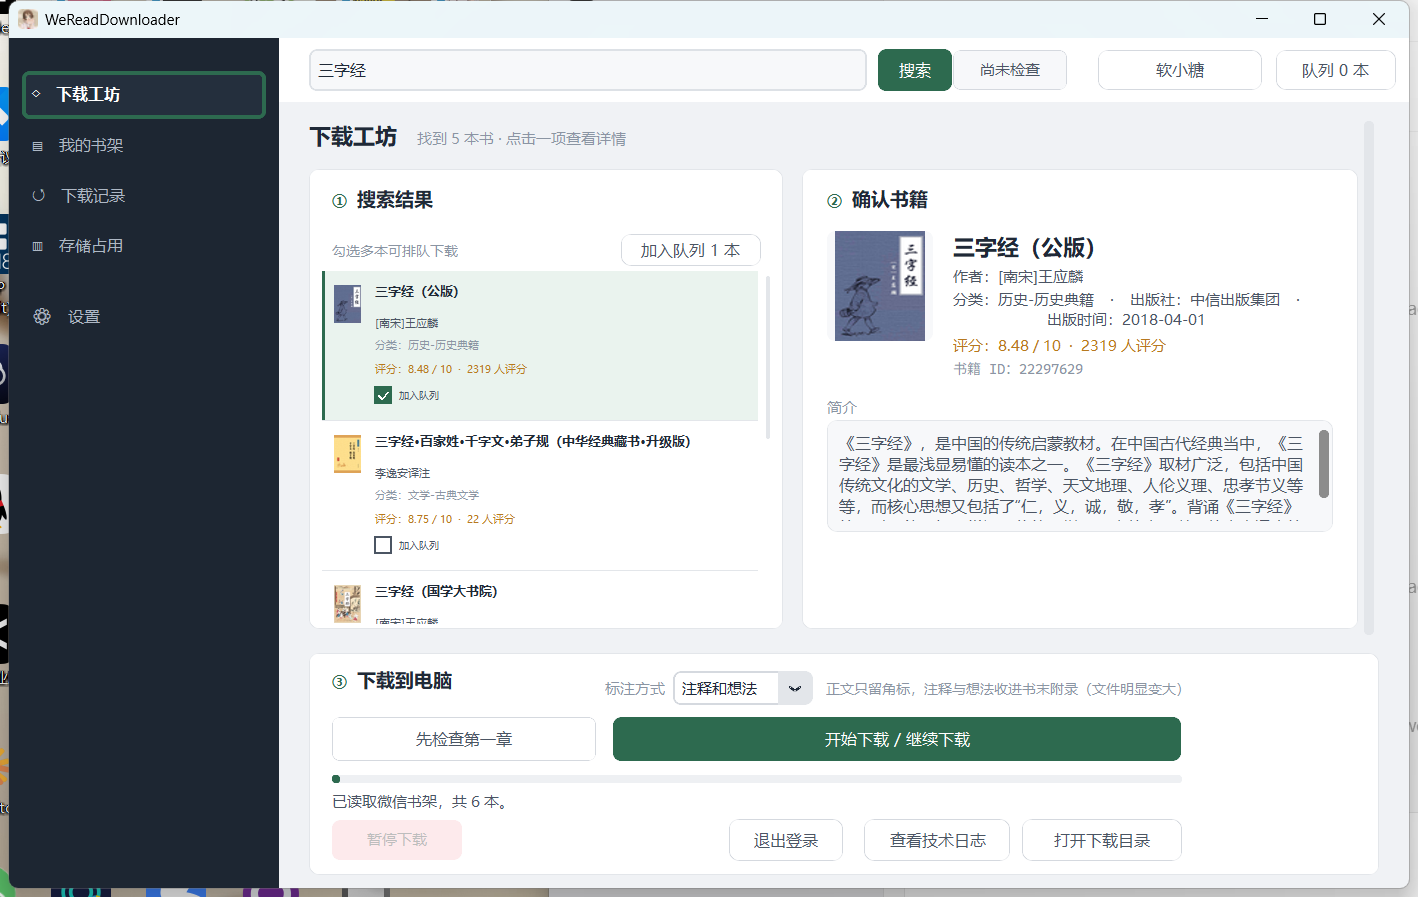
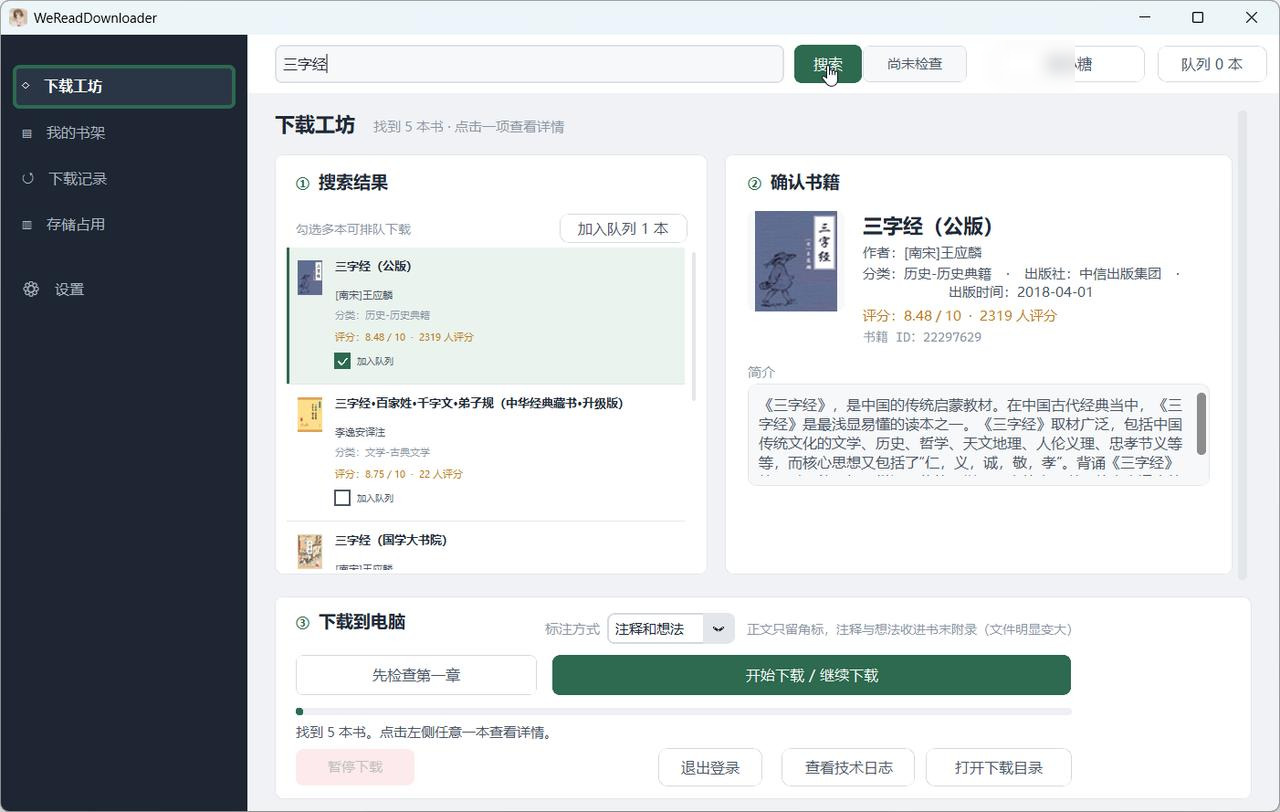
docs: 重写 README（完整功能介绍、目录含义、常见问题）；删除含其他窗口的截图并隐去账号名 (#44)

diff --git a/README.md b/README.md
@@ -1,18 +1,57 @@
 # WeReadDownloader
 
-把微信读书里的书导出成 EPUB：正文完整，划线和注释按你选的方式收进书末附录，支持断点续传和排队下载。Windows 桌面程序。
+把微信读书里的书导出成 EPUB。正文按章节抓取、可断点续传；划线、注释和想法按你选的方式收进书末附录；一次可以排队下载多本。
+
+Windows 桌面程序，Tk 图形界面，下载引擎是一个独立的 worker 进程。
 
 ![下载工坊](docs/screenshots/01-workflow.png)
 
-> 导出的内容版权归原作者和出版社，请只用于自己阅读，不要分享或传播。详见[免责声明](#免责声明)。
+> 导出的内容版权归原作者和出版社，请只用于自己阅读。详见[免责声明](#免责声明)。
+
+---
+
+## 功能
+
+- **搜索下载**：书名/作者搜索，选中后先试读第一章确认协议可用，再开始整本下载。
+- **书架下载**：直接列出微信读书账号里的书，点一下就能下载。
+- **断点续传**：章节、图片、划线数据逐章落盘；中断后继续下载不会从头再来。
+- **排队下载**：勾选多本加入队列，按顺序自动下载；可暂停在当前这本、可跳过某本、结束时汇总未完成的书。
+- **四种标注方式**：注释和想法 / 注释 / 想法 / 纯正文。
+- **统一附录**：注释与想法收进书末分册，正文只留可点的角标。
+- **缺失说明**：书里少了什么（缺图、未定位的划线）写进 `manifest.json`，下载完成时也会提示。
+- **体积控制**：插图按内容去重；图片与正文共用一个压缩包，不给同一本书存第二份。
 
 ---
 
 ## 下载安装
 
-从 [Releases](../../releases) 下载 `WeReadDownloader-Setup.exe`，双击安装。
+系统要求：Windows 10 / 11（64 位）。
 
-安装包只问装到哪、要不要桌面快捷方式。主程序和下载组件一起安装，没有可选的组件。
+从 [Releases](../../releases) 下载 `WeReadDownloader-Setup.exe` 双击安装。安装向导只问安装位置（默认 `C:\Program Files\WeReadDownloader`）和是否创建桌面快捷方式；主程序与下载组件一起安装。
+
+数据目录固定在本机，不跟随安装位置：
+
+```
+%LOCALAPPDATA%\WeReadDesktop\
+├── exports\      # 导出的书
+├── logs\         # 日志
+├── weread-live-settings.lua   # api_key
+└── session-cookies.json       # 扫码会话（DPAPI 加密）
+```
+
+升级或重装程序不会动这个目录。
+
+---
+
+## 快速开始
+
+1. 安装并打开程序。
+2. 点右上角账号按钮，按提示完成登录（见[登录](#登录)）。
+3. 在顶栏搜索书名，点搜索结果里的一本。
+4. 点「先检查第一章」，确认能取到正文。
+5. 点「开始下载 / 继续下载」。
+
+下载进度、当前章节和缺失说明都在「③ 下载到电脑」卡片里。
 
 ---
 
@@ -22,42 +61,51 @@
 
 | 页面 | 用途 |
 |---|---|
-| 下载工坊 | 搜索、确认书籍、开始下载；排队下载 |
-| 我的书架 | 账号里的书直接下载；本机已导出的书可以打开、删除 |
+| 下载工坊 | 搜索、确认书籍、下载；排队下载 |
+| 我的书架 | 微信书架直接下载；管理本机已导出的书 |
 | 下载记录 | 每本书的下载结果 |
-| 存储占用 | 导出目录占了多少、哪些可以回收 |
-| 设置 | 下载目录、日志目录、账号、标注方式说明、检查更新 |
+| 存储占用 | 导出目录占了多少、哪些目录可以回收 |
+| 设置 | 下载/日志目录、账号、标注方式说明、检查更新 |
 
-### 下载一本书
+### 下载工坊
 
-「下载工坊」从左到右三步：
+页面分三块，从左到右：
 
-1. **搜索**：顶栏输入书名或作者，点「搜索」。
-2. **确认**：点搜索结果里的一本，右侧显示封面、分类、简介和书籍 ID，确认是你要的版本。
-3. **下载**：先点「先检查第一章」验证账号和协议可用（只取一章，不会开始整本下载），再点「开始下载 / 继续下载」。
-
-中途关掉程序或断网都没关系：再次下载同一本书会从断点续传。
-
-### 排队下载
-
-在搜索结果里勾选多本，点结果卡片上的「加入队列 N 本」，再点顶栏的「队列」打开队列面板，点「开始队列下载」。
-
-- 队列按勾选顺序一本一本下载，每本结束后自动开始下一本。
-- 「暂停下载」停在当前这本，书插回队首，按钮变「继续队列」。
-- 下载中在结果卡片上取消勾选，轮到这本书时会跳过。
-- 队列结束时如果有书没完成，会列出书名和原因；已下载的章节都保留，可以在书架里点那本书继续。
+- **① 搜索结果**：搜索结果卡片，可勾选多本加入队列；每页 6 本，用底部翻页条切换。
+- **② 确认书籍**：封面、作者、分类、出版社、出版时间、评分、书籍 ID 和简介。选错版本时看这一栏。
+- **③ 下载到电脑**：标注方式、先检查第一章、开始/继续下载、暂停、退出登录、查看技术日志、打开下载目录。
 
 ### 我的书架
 
-「微信书架」列出账号里的书，点书名或「下载」直接开始。「本机已导出」是这台电脑上的成品：可以打开目录、删除想法数据（保留 EPUB）、删除整本，或用「全部清理」回收半成品和残留目录。
+上半部分「微信书架」是账号里的书，点书名或「下载」直接进入下载确认。右上角「刷新书架」重新拉取。
 
-![我的书架](docs/screenshots/02-bookshelf.png)
+下半部分「本机已导出」是这台电脑上的成品，按书列出：
+
+- **打开**：在资源管理器里打开导出目录。
+- **删想法**：删除 `reviews.jsonl`（想法与划线原始数据），EPUB 保留。
+- **删除**：删除整本书的导出目录。
+- **全部清理**：回收未完成/半成品/残留目录，不影响已完成的 EPUB。
+
+### 下载记录
+
+按时间列出每本书的结果：完成的书会标出产物类型（EPUB），未完成或失败的也会出现在这里。数据来自日志文件，可以随时清理。
+
+### 存储占用
+
+显示已完成的书数、想法数据体积、导出目录总占用和可回收空间。可回收部分就是「我的书架 → 全部清理」会删掉的那些目录。
+
+### 设置
+
+- 下载目录、技术日志目录的路径和「打开文件夹」。
+- 登录：说明凭证保存位置与退出登录的两个范围。
+- 标注方式：默认档位与含义。
+- 版本与更新：显示当前版本，检查更新（覆盖安装会保留导出与登录信息）。
 
 ---
 
 ## 标注方式
 
-下载区右上角的「标注方式」决定成品里保留哪些内容：
+下载区右上角的「标注方式」决定成品保留哪些内容：
 
 | 标注方式 | 划线 | 注释 | 想法 |
 |---|---|---|---|
@@ -66,11 +114,33 @@
 | **想法** | 有 | 无 | 书末附录 |
 | **纯正文** | 无 | 无 | 无 |
 
-「注释和想法」是默认档：正文只保留角标——注是「注」字角标，想法是蓝色 `[N]`——点角标跳到书末附录。附录按约 3000 条注分册，想法单独一册，都出现在目录里，可以像普通章节一样翻。
+**附录怎么排**：正文里只保留角标——注是「注」字角标，想法是蓝色 `[N]`——点角标跳到书末对应的条目，条目上的编号可以跳回原文。注按约 3000 条一册分批，想法单独一册，和普通章节一起出现在目录里，不占用阅读位置。
 
-「纯正文」连划线也不取，是四种里最快、体积最小的。
+**各档的差别**：
 
-标注方式按书保存，下载中途不能切换；换挡会按新模式重新下载（已下载的章节保留在断点里，但需要重新取正文）。
+- 「注释」不拉取想法数据；正文里原有的想法角标不会再指向附录。
+- 「想法」只收想法；注释不导入正文，也不生成注册。
+- 「纯正文」连 `/book/underlines` 与 `/book/readreviews` 两个接口都不请求，每章少两个网络往返，是四种里最快、体积最小的。
+
+**换挡的代价**：标注方式按书保存。下载中途不能改；下载完成后再换挡会重新取章节正文（断点里的旧章节是按旧模式注入的，需要重取）。
+
+---
+
+## 排队下载
+
+1. 在搜索结果里勾选多本（卡片上的「加入队列」）。
+2. 点结果区右上角「加入队列 N 本」。
+3. 点顶栏「队列」打开队列面板，点「开始队列下载」。
+
+| 操作 | 行为 |
+|---|---|
+| 开始队列下载 | 从队首一本一本下载，每本结束后自动开始下一本 |
+| 暂停下载 | 停在当前这本：写盘保留、书插回队首、按钮变「继续队列」 |
+| 继续队列 | 从队首那本继续，已下载的章节续传 |
+| 下载中取消勾选 | 轮到时跳过这本，不打断当前任务 |
+| 移除 / 清空队列 | 只在队列未运行时可用（运行中先暂停） |
+
+队列结束时，如果所有书都完成，状态栏写「队列已全部完成」；有书没完成时列出书名和原因。未完成的书保留断点，可以在书架里点那本书继续。
 
 ---
 
@@ -80,59 +150,127 @@
 %LOCALAPPDATA%\WeReadDesktop\exports\
 └── 书名-书籍ID\
     ├── 书名 - full.epub     # 成品，可直接阅读
-    ├── manifest.json        # 章节清单 + 这本书缺了什么
-    └── reviews.jsonl        # 划线落点与想法原始数据
+    ├── manifest.json        # 章节清单 + 本书的缺失说明
+    ├── reviews.jsonl        # 划线落点与想法原始数据
+    └── bundle.json          # 上面几个文件的索引
 ```
 
-只有 EPUB 一个成品，不生成导入包。
+- **EPUB**：唯一成品。拷进任何支持 EPUB 的阅读器即可；附录、目录、角标跳转都在文件里。
+- **manifest.json**：章节顺序与 UID、`omissions`（这本书缺了什么）、附录文件清单。
+- **reviews.jsonl**：每章的划线区间、选中文字、想法正文。删除它不影响已生成的 EPUB（「我的书架 → 删想法」做的就是这件事）。
+- **bundle.json**：指向上述文件的相对路径，供工具读取。
 
-`manifest.json` 的 `omissions` 会写明这本书少了什么：插图没能取回多少张、有多少条划线在原文里找不到位置。程序宁可降级也不失败，所以偶尔会有缺图或缺划线——完成提示和这份清单都会说明。
+`omissions` 里常见的字段：
+
+| 字段 | 含义 |
+|---|---|
+| `text_complete` | 正文是否完整（缺章时不会发布 EPUB） |
+| `images_dropped` / `chapters_with_dropped_images` | 服务端已删除或缺图的图片数与涉及章节 |
+| `images_dropped_note_markers` | 其中属于「注」角标图（note.png）的数量；注文本身已保留 |
+| `underlines_not_placed` / `chapters_with_unplaced_underlines` | 原文里找不到可用位置、被略去的划线条数与章节 |
+| `unplaced_underline_details` | 上面这些划线的章节与区间（最多 200 条） |
 
 单张图片超过 64 MiB 时会跳过该图并计入缺失，不会让整章失败。
 
-**日志位置**：`%LOCALAPPDATA%\WeReadDesktop\logs\`（反馈问题请一并提供）
+**日志位置**：`%LOCALAPPDATA%\WeReadDesktop\logs\`。反馈问题时连同 `desktop-general.log` 和对应书的日志一起提供。
 
 ---
 
 ## 登录
 
-分两步：
+微信读书没有给第三方"扫码后自动下发 `api_key`"的接口，所以第一次需要两个步骤：
 
 1. **拿一次 `api_key`**：浏览器打开 [weread.qq.com/r/weread-skills](https://weread.qq.com/r/weread-skills)，登录后复制页面给出的 `api_key`（形如 `wrk-...`）。
-2. **程序里扫码**：点右上角账号按钮 →「扫码」，微信确认。程序会把 `api_key` 和扫码得到的会话 cookie 一起保存（cookie 用 Windows DPAPI 加密）。
+2. **在程序里扫码**：点右上角账号按钮 →「扫码」，用微信确认。程序会把 `api_key` 和扫码得到的会话一起保存。
 
 | 文件 | 内容 | 有效期 |
 |---|---|---|
-| `weread-live-settings.lua` | `api_key` | 长期，除非在微信读书网页版注销设备 |
-| `session-cookies.json` | 扫码会话（DPAPI 加密） | 会过期，重新扫码即可 |
+| `weread-live-settings.lua` | `api_key` | 长期，除非在微信读书网页版「注销其它设备」 |
+| `session-cookies.json` | 扫码会话，Windows DPAPI 加密 | 会过期，重新扫码即可 |
 
-「退出登录」会问范围：
+两个文件都在 `%LOCALAPPDATA%\WeReadDesktop\`。
 
-- **仅退出会话**：只删 `session-cookies.json`，`api_key` 保留，下次打开不用重新抄。
-- **彻底清除**：两个文件都删，下次需要重新扫码并重抄 `api_key`。
+**退出登录**有两个范围：
 
-两个文件都在 `%LOCALAPPDATA%\WeReadDesktop\`。凭证不进日志、不进安装包、不进仓库；仓库的 pre-push 钩子会扫描硬编码密钥。
+- **仅退出会话**：只删 `session-cookies.json`；`api_key` 保留，下次打开点一次扫码即可。
+- **彻底清除**：两个文件都删，下次需要重新扫码并重抄一次 `api_key`。
+
+凭证只存放在本机：不进日志、不进导出目录、不进仓库。仓库的 `pre-push` 钩子会在每次推送前扫描硬编码密钥与凭证文件。
+
+---
+
+## 数据与网络
+
+- 程序只与本机 worker 进程通信；worker 直接访问微信读书接口，不经过任何第三方服务器。
+- 导出、日志、凭证全部在本机。程序不上传书籍内容、阅读记录或账号信息。
+- 自更新检查会访问 GitHub Releases 读取版本号；在设置页手动触发，失败不影响下载。
+
+---
+
+## 常见问题
+
+**下载卡在「正在准备下载…」**
+worker 启动、登录校验和断点扫描需要几秒；首次安装后系统扫描新程序可能更久。超过一分钟仍无进度时，打开「查看技术日志」，看最后一条 `[SPAWN]` 或 `FAILED` 记录。
+
+**有些划线没有出现在书里**
+微信读书给不出这条划线在原文里的位置时，程序会略去它而不是标错句子。数量与章节写在完成提示和 `manifest.json` 的 `omissions` 里。
+
+**书里少了几张图**
+微信读书服务端已删除的图片无法取回；超过 64 MiB 的单张图会被跳过。两种情况都计入 `omissions`，正文不受影响。
+
+**队列里某本没完成**
+已下载的章节保留。在「我的书架」里点那本书继续下载即可，会从断点续传。
+
+**换电脑怎么迁移**
+把 `%LOCALAPPDATA%\WeReadDesktop\` 整个目录拷过去即可，导出、凭证、日志都在里面。凭证用 DPAPI 加密，只在原机器上可解；换机器后需要重新扫码（`api_key` 可以继续用）。
+
+**登录过期了怎么办**
+状态灯显示「需要登录」时点账号按钮重新扫码，导出目录和断点头不受影响。
 
 ---
 
 ## 已知限制
 
-- 同一时间只有一个下载任务；队列一本接一本串行执行。
-- 切换标注方式会重新取章节正文（断点保留，但不会沿用旧模式的缓存）。
-- 微信读书给不出某条划线在原文里的位置时，这条划线会被略去而不是标错位置；数量写在 `manifest.json` 和完成提示里。
-- 微信读书服务端已删除的图片无法取回；超过 64 MiB 的单张图会被跳过。两种情况都会计入缺失说明。
+- 同一时间只有一个下载任务；队列是一本接一本串行执行。
+- 切换标注方式会重新取章节正文（断点保留，但不沿用旧模式的缓存）。
+- 划线定位依赖微信读书返回的字符区间；拿不到区间的划线会被略去。
+- 古文注释里的「注」收集进附录，正文中保留「注」角标；个别书版的特殊排版元素可能无法原样还原。
 
 ---
 
-## 开发
+## 开发与构建
 
-源码在 `weread/`：`desktop_app.py` 是 GUI，`weread_desktop.py` 是导出引擎，`weread_worker.py` 是两者的进程入口。打包用 `packaging/*.spec` 与 `installer/WeReadDesktop.iss`。
+仓库结构：
+
+| 路径 | 内容 |
+|---|---|
+| `weread/desktop_app.py` | Tk 图形界面 |
+| `weread/weread_desktop.py` | 导出引擎（协议、抓取、打包、附录） |
+| `weread/weread_worker.py` | 进程入口：引擎模式与扫码登录模式 |
+| `weread/unified_appendix.py` | 「注释和想法」附录生成与校验 |
+| `packaging/*.spec` | 两个 PyInstaller 打包描述（GUI / worker） |
+| `installer/WeReadDesktop.iss` | Inno Setup 安装脚本 |
+| `tests/` | Python 测试 |
+
+测试：
 
 ```
-python -m pytest -q   # Python 侧测试
+python -m pytest -q
 ```
 
-打包：先构建 `packaging/WeReadWorker.spec` 与 `packaging/WeReadDesktop.spec` 到 `release-fresh/`，再用 Inno Setup 编译 `installer/WeReadDesktop.iss`。
+需要外部 Lua 插件目录的用例（`WEREAD_KINDLE_ROOT` 指向 Kindle 目录）在缺失时会跳过。
+
+打包：
+
+```
+pyinstaller --distpath release-fresh --workpath build-fresh-gui packaging/WeReadWorker.spec
+pyinstaller --distpath release-fresh --workpath build-fresh-gui packaging/WeReadDesktop.spec
+"%LOCALAPPDATA%\Programs\Inno Setup 6\ISCC.exe" installer/WeReadDesktop.iss
+```
+
+产物：`release-installer\WeReadDownloader-Setup.exe`。
+
+命令行（调试用）：`WeReadWorker.exe` 支持 `--search`、`--book-info`、`--shelf`、`--check-auth`、`--probe-book`，以及带书 ID 的整本导出（`--jobs`、`--no-annotations`、`--no-thoughts`、`--unified-appendix`、`--appendix-scope`）。
 
 ---
 
